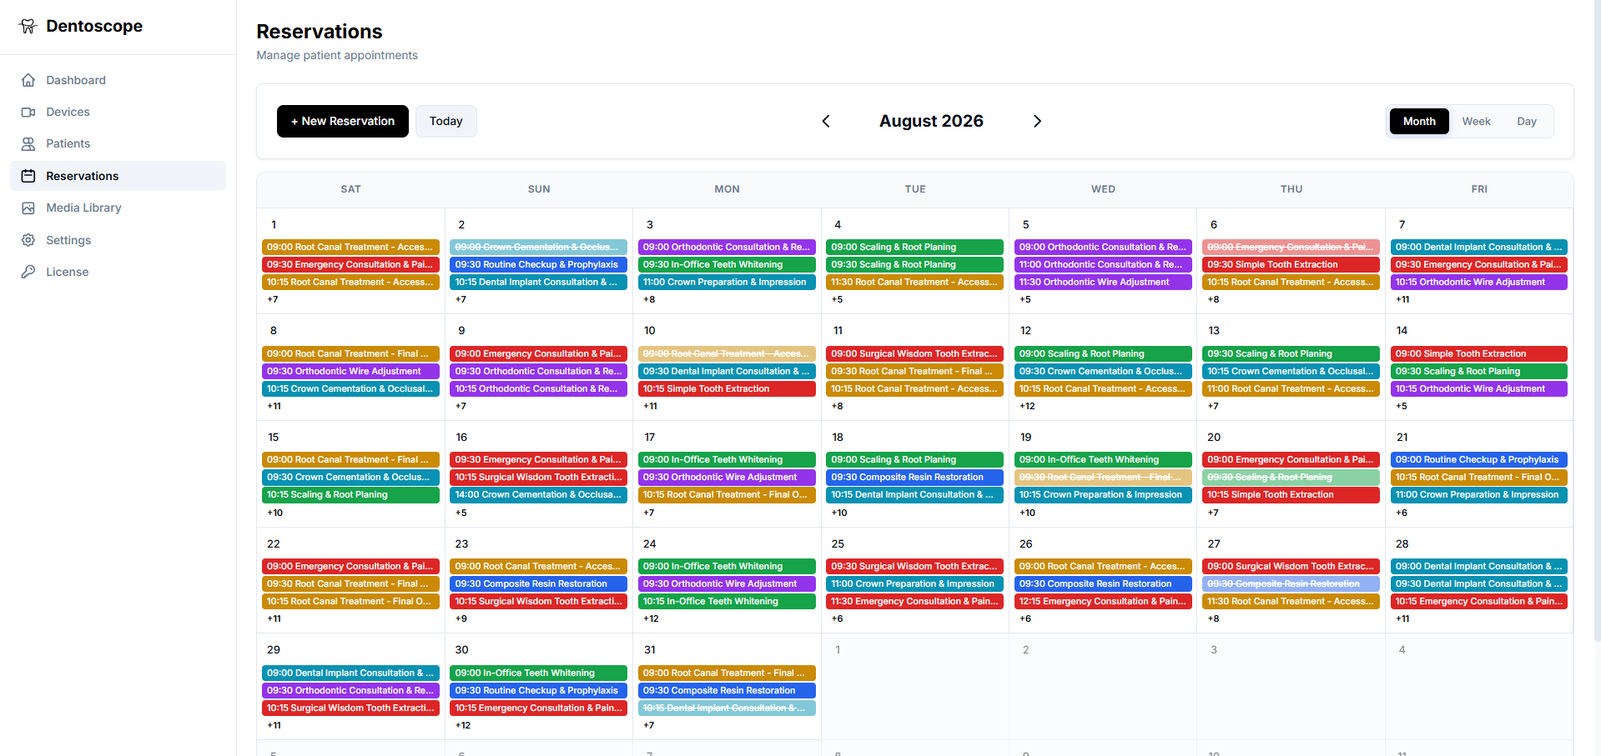
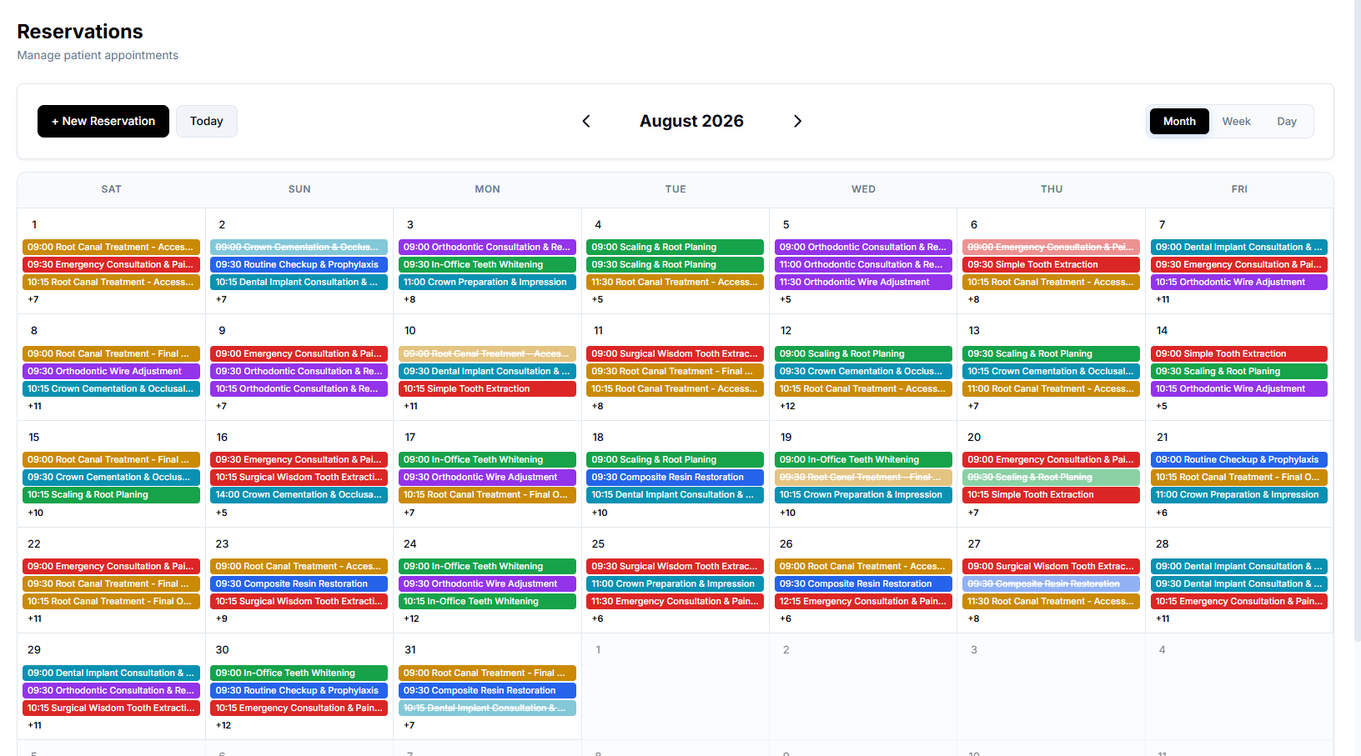
feat: implement demo request form with localization support and new UI components

diff --git a/src/app/translations.ts b/src/app/translations.ts
@@ -126,123 +126,123 @@ export const localTranslations = {
   },
   ar: {
     navFeatures: "المميزات",
-    navGallery: "شاهد النظام",
+    navGallery: "استعرض النظام",
     navLatency: "البث المباشر",
-    navSpecs: "المواصفات الفنية",
+    navSpecs: "البنية التقنية",
     navDemo: "احجز عرضاً تجريبياً",
     ctaDashboard: "دخول النظام",
     heroTitle: "دنتوسكوب.",
-    heroSubtitle: "منصة واحدة. كل ما تحتاجه عيادتك.",
-    heroDesc: "ملفات المرضى، البث المباشر للميكروسكوب، الشرح ثلاثي الأبعاد، الجدولة، والوصفات الطبية — في نظام موحد يعمل داخل عيادتك.",
+    heroSubtitle: "منصة واحدة. كل أدوات عيادتك في مكان واحد.",
+    heroDesc: "سجلات المرضى، بث الميكروسكوب الحي، العرض ثلاثي الأبعاد، المواعيد، والروشتات العلاجية — كلها في نظام واحد يعمل من داخل عيادتك.",
 
     // Latency simulator
-    latencyTitle: "بث ميكروسكوب فوري",
-    latencySubtitle: "معظم أنظمة البث تضيف 2-3 ثوانٍ تأخير. أثناء الجراحة الدقيقة، هذا هو الفرق بين الدقة والتخمين. دنتوسكوب يبث صورة الميكروسكوب بدون أي تأخير — شاشتك وعدستك متزامنتان تماماً.",
+    latencyTitle: "بث فوري للميكروسكوب",
+    latencySubtitle: "تضيف معظم أنظمة البث تأخيراً يتراوح بين 2 إلى 3 ثوانٍ. وفي الجراحة الدقيقة، ينعكس هذا التأخير فارقاً بين الدقة والتخمين. يبث دنتوسكوب صورة الميكروسكوب بدون أي تأخير — لتظل شاشتك وعدستك في تزامن تام دائماً.",
     latencyRTC: "بث دنتوسكوب المباشر",
     latencyRTSP: "البث الشبكي التقليدي",
     latencyRTCLag: "تأخير ~0 ثانية",
-    latencyRTSPLag: "بث متباطئ (~3200 مللي ثانية تأخير)",
+    latencyRTSPLag: "بث بطيء (تأخير ~3200 مللي ثانية)",
     latencyStart: "تشغيل المحاكاة",
     latencyPause: "إيقاف مؤقت",
 
     // Screenshots Gallery Section
-    galleryTitle: "سير عملك بالكامل. في شاشة واحدة.",
-    gallerySubtitle: "من استقبال المريض إلى تقرير ما بعد العلاج — شاهد كيف يدير أطباء الأسنان عياداتهم على دنتوسكوب كل يوم.",
+    galleryTitle: "منظومتك كاملة. في شاشة واحدة.",
+    gallerySubtitle: "من لحظة وصول المريض وحتى مغادرته — اكتشف كيف يدير أطباء الأسنان عياداتهم عبر دنتوسكوب يومياً.",
 
-    screen1Title: "التقاط مباشر وأرشيف وسائط",
-    screen1Desc: "ابث الميكروسكوب أو كاميرا الفحص، التقط صور التشخيص، وأرشفها في ملف المريض — كل ذلك دون مغادرة شاشة العلاج.",
+    screen1Title: "التقاط حي وأرشيف الصور",
+    screen1Desc: "شغّل الميكروسكوب أو كاميرا الفم، التقط صور التشخيص، وأرشفها في سجل المريض — كل ذلك دون مغادرة شاشة العلاج.",
 
     screen2Title: "عرض الحالة ثلاثي الأبعاد",
-    screen2Desc: "امشِ المريض خلال حالته باستخدام مجسمات أسنان تفاعلية. حدد التسوس، وضّح علاج الجذور، واعرض خيارات العلاج بصرياً. المريض الذي يفهم يوافق.",
+    screen2Desc: "وضّح للمريض حالته بمجسمات أسنان تفاعلية. حدد التسوس، اشرح علاج الجذور، واعرض خيارات العلاج بصرياً. المريض الذي يفهم حالته يوافق بثقة.",
 
     screen3Title: "إدارة المواعيد",
-    screen3Desc: "نظّم مواعيد المرضى، تابع جاهزية الكراسي العلاجية، وحدد جلسات المتابعة مباشرة من شاشة العمل السريرية. يومك يظل منظماً.",
+    screen3Desc: "نظّم مواعيد المرضى، وحدد جلسات المتابعة — مباشرة من شاشة عملك الرئيسية. ليبقى يومك منظماً بدقة.",
 
-    screen4Title: "الوصفات الطبية الرقمية والطباعة المباشرة",
-    screen4Desc: "حرر الوصفة الطبية رقمياً أثناء الجلسة، أرفقها بملف المريض، واطبعها مباشرة على طابعة العيادة قبل مغادرة المريض للكرسي.",
+    screen4Title: "الروشتات العلاجية الرقمية والطباعة الفورية",
+    screen4Desc: "اكتب الروشتة العلاجية رقمياً أثناء الجلسة، أرفقها بسجل المريض، واطبعها فوراً قبل مغادرة المريض للكرسي.",
 
     // Bento Grid Features
-    bentoHeader: "نظام متكامل. مش مجرد أداة.",
-    feat1Title: "سجلات المرضى والخط الزمني",
-    feat1Desc: "صور، أشعة، فيديوهات، ملاحظات، ووصفات — مرتبة زمنياً لكل مريض. كل ما تحتاجه في عرض واحد. بدون ملفات متناثرة.",
+    bentoHeader: "نظام متكامل. ليس مجرد أداة.",
+    feat1Title: "سجلات المرضى والتاريخ الزمني",
+    feat1Desc: "صور، أشعة، فيديوهات، ملاحظات، وروشتات علاجية — كلها مرتبة زمنياً لكل مريض. كل ما تحتاجه في شاشة واحدة، دون مستندات متناثرة.",
     feat2Title: "إدارة المواعيد",
-    feat2Desc: "جدوِل الزيارات، تابع حالة الكراسي، ونظّم يومك — كل ذلك مدمج في نفس النظام الذي تستخدمه للعلاج. بدون تطبيق منفصل.",
+    feat2Desc: "جدوِل الزيارات، ونظّم يومك — كل ذلك مدمج في نفس النظام الذي تستخدمه للعلاج، دون الحاجة لتطبيقات منفصلة.",
     feat3Title: "عرض العلاج ثلاثي الأبعاد",
-    feat3Desc: "مجسمات فك تفاعلية تُري المريض بالضبط ما يحدث. حدد المشكلة، خطط الترميم، واحصل على موافقة مبنية على فهم — بصرياً.",
-    feat4Title: "وصفات طبية رقمية",
-    feat4Desc: "اكتب الوصفة أثناء الجلسة وأرفقها مباشرة بملف المريض. اطبعها أو احفظها قبل ما المريض يقوم.",
+    feat3Desc: "مجسمات فك تفاعلية تُظهر للمريض تشخيص حالته بدقة. حدد التسوس، وضح خطة العلاج، واحصل على موافقته الواعية — بصرياً.",
+    feat4Title: "روشتات علاجية رقمية",
+    feat4Desc: "اكتب الروشتة العلاجية أثناء الجلسة وأرفقها مباشرة بسجل المريض. اطبعها أو احفظها مباشرة قبل مغادرة المريض.",
     feat5Title: "بث الميكروسكوب المباشر",
-    feat5Desc: "بث فيديو فوري من الميكروسكوب أو كاميرا الفحص بدون أي تأخير. ما تحت العدسة يظهر على الشاشة لحظياً — مثالي للعمل الدقيق.",
+    feat5Desc: "بث فوري من الميكروسكوب أو كاميرا الفم بدون أي تأخير. ما تحت العدسة يظهر على الشاشة فوراً، مما يجعله مثالياً للإجراءات الدقيقة.",
     feat6Title: "تحكم صوتي بدون لمس",
-    feat6Desc: "التقط صور، ابدأ التسجيل، أو تصفح النظام بالأوامر الصوتية. مفيد أثناء العمليات لما تكون يديك مشغولة.",
+    feat6Desc: "التقط الصور، ابدأ التسجيل، أو تصفح النظام بصوتك. مفيد أثناء الإجراءات الطبية عندما تكون يداك مشغولتين.",
     feat7Title: "استيراد تلقائي للأشعة والصور",
-    feat7Desc: "أجهزة التصوير تحفظ ملفاتها في مجلد. دنتوسكوب يراقب المجلد ويرفق كل شيء بملف المريض النشط تلقائياً.",
-    feat8Title: "ملخصات فيديو للمريض",
-    feat8Desc: "سجّل فيديو سريع تشرح فيه عمل اليوم فوق صور التشخيص. المريض يغادر وهو فاهم خطة العلاج بالكامل.",
+    feat7Desc: "تستورد المنصة الأشعة والصور التلقائية من مجلدات أجهزتك، لترفقها فوراً بسجل المريض النشط.",
+    feat8Title: "شرح فيديو للمريض",
+    feat8Desc: "سجّل فيديو سريع تشرح فيه إجراءات اليوم فوق صور التشخيص، ليغادر المريض وهو على استيعاب كامل لخطة علاجه.",
     feat9Title: "إدارة المستندات",
-    feat9Desc: "تقارير المختبر، رسائل التحويل، نماذج التأمين، التاريخ الطبي — أرفق أي PDF بملف المريض. ملف واحد، مكان واحد، دائماً موجود.",
+    feat9Desc: "تقارير المعمل، خطابات التحويل، نماذج التأمين، والتاريخ الطبي — أرفق أي مستند PDF بسجل المريض. في مكان واحد منظم، ومتاح دائماً.",
     feat10Title: "طباعة مباشرة من العيادة",
-    feat10Desc: "اطبع الوصفات والتقارير وملخصات المريض على أي طابعة متصلة — عادية أو حرارية — مباشرة من محطة العمل.",
+    feat10Desc: "اطبع الروشتات العلاجية والتقارير وملخصات المريض على أي طابعة متصلة — عادية أو حرارية — من شاشة العمل مباشرة.",
     feat11Title: "يعمل مع أجهزتك الحالية",
-    feat11Desc: "وصّل الميكروسكوب أو كاميرا الفحص أو أي جهاز تصوير لديك. دنتوسكوب يتعرف عليه ويتصل به فوراً.",
+    feat11Desc: "وصّل الميكروسكوب أو كاميرا الفم أو أي جهاز تصوير لديك. يتعرف عليه دنتوسكوب ويتصل به فوراً.",
     feat12Title: "محلي 100% وبدون إنترنت",
-    feat12Desc: "بدون اعتماد على السحابة. بدون حاجة للإنترنت. نظامك بالكامل يعمل على شبكتك المحلية — متاح دائماً، خاص دائماً، ملكك دائماً.",
+    feat12Desc: "بدون سحابة. بدون إنترنت. نظامك يعمل بالكامل على شبكتك المحلية — متاح دائماً، آمن تماماً، وملك لك بالكامل.",
 
     // Specs
     specsTitle: "البنية التقنية",
     specsDb: "هندسة البيانات",
-    specsDbVal: "قاعدة بيانات محلية. كل سجلات المرضى والوسائط والمستندات محفوظة بأمان على أجهزة عيادتك. بدون خوادم خارجية.",
+    specsDbVal: "قاعدة بيانات محلية. كل سجلات المرضى والصور والمستندات محفوظة بأمان على أجهزة العيادة، بدون خوادم خارجية.",
     specsVideo: "محرك البث المرئي",
-    specsVideoVal: "محرك بث مباشر بتأخير أقل من ثانية مُحسّن لبث الميكروسكوب الجراحي وتنسيق اليد مع الشاشة.",
+    specsVideoVal: "محرك بث بتأخير أقل من ثانية، مصمم لبث الميكروسكوب الجراحي والتنسيق الفوري بين يدك والشاشة.",
     specsTwain: "تكامل التصوير",
-    specsTwainVal: "مراقبة تلقائية للمجلدات تستورد الأشعة وصور السنسور والصور الرقمية مباشرة لملف المريض النشط.",
+    specsTwainVal: "مراقبة تلقائية للمجلدات — تُرفق الأشعة وصور السنسور بسجل المريض تلقائياً.",
     specsRtc: "محرك الصوت",
-    specsRtcVal: "التعرف على الصوت يعمل محلياً بدون إنترنت ويحول أوامرك لإجراءات في النظام — التقاط، تسجيل، تصفح، وطباعة.",
+    specsRtcVal: "يعمل التعرف على الصوت محلياً بدون إنترنت ويحوّل أوامرك الصوتية إلى إجراءات مباشرة في النظام — التقاط، تسجيل، تصفح، وطباعة.",
     specsNetwork: "المشاركة عبر الشبكة",
-    specsNetworkVal: "شارك سجلات المرضى والبث المباشر على الأيباد وشاشات العيادة واللابتوبات عبر شبكتك المحلية. صفر استهلاك إنترنت.",
+    specsNetworkVal: "شارك سجلات المرضى والبث الحي على الآيباد وشاشات العيادة واللابتوبات — عبر شبكتك المحلية، بدون أي استهلاك للإنترنت.",
 
     // Easy Setup Walkthrough
-    workflowHeader: "جاهز للعمل خلال أقل من 10 دقائق",
+    workflowHeader: "جاهز للعمل في أقل من 10 دقائق",
     workflowStep1Title: "1. ثبّت دنتوسكوب",
-    workflowStep1Desc: "تحميل واحد. ضغطة واحدة. يُثبّت محلياً على جهاز العيادة — بدون قسم تقنية، بدون إعداد خوادم.",
+    workflowStep1Desc: "تحميل واحد بضغطة واحدة. يتثبّت محلياً على جهاز العيادة — بدون الحاجة لخوادم أو دعم تقني معقد.",
     workflowStep2Title: "2. وصّل أجهزتك",
-    workflowStep2Desc: "وصّل الميكروسكوب أو كاميرا الفحص أو أجهزة التصوير. دنتوسكوب يكتشفها ويضبطها تلقائياً.",
+    workflowStep2Desc: "وصّل الميكروسكوب أو كاميرا الفم أو أجهزة التصوير. يتعرف عليها دنتوسكوب ويضبطها تلقائياً.",
     workflowStep3Title: "3. ابدأ العمل",
-    workflowStep3Desc: "افتح ملف المريض وابدأ جلستك. جدوِل، التقط، اكتب الوصفة، ووثّق — كل ذلك من مكان واحد.",
+    workflowStep3Desc: "افتح سجل المريض وابدأ جلستك. جدوِل المواعيد، التقط الصور، اكتب الروشتة العلاجية، ووثّق الجلسة — كل ذلك من شاشة واحدة.",
     workflowStep4Title: "",
     workflowStep4Desc: "",
 
-    hygieneHeader: "مصمم حول طريقة عمل طبيب الأسنان الفعلية.",
-    hygieneDesc: "دنتوسكوب ليس أداة تتكيف أنت معها — إنه نظام بُني ليتوافق مع الطريقة التي تعمل بها عيادتك فعلاً. من لحظة دخول المريض إلى لحظة مغادرته، كل خطوة مغطاة: الجدولة، التشخيص، توثيق العلاج، الوصفات، والمتابعة.",
+    hygieneHeader: "مصمم ليتوافق تماماً مع نمط العمل الفعلي لطبيب الأسنان.",
+    hygieneDesc: "دنتوسكوب ليس مجرد أداة تتكيف معها، بل نظام متكامل صُمم ليتوافق مع سير العمل في عيادتك. من لحظة وصول المريض وحتى مغادرته، كل خطوة مغطاة بالكامل: المواعيد، التشخيص، توثيق العلاج، الروشتات العلاجية، والمتابعة.",
     hygieneFeature1Title: "نظام واحد لكل شيء",
-    hygieneFeature1Desc: "توقف عن التنقل بين تطبيقات المواعيد والوسائط والسجلات والوصفات. دنتوسكوب يجمعها كلها في واجهة واحدة.",
-    hygieneFeature2Title: "بدون لمس عند الحاجة",
-    hygieneFeature2Desc: "أثناء العمليات، تحكم بالنظام بصوتك — التقاط، تسجيل، تصفح. خارج العمليات، استخدمه كأي تطبيق عادي.",
+    hygieneFeature1Desc: "استغني عن التنقل بين تطبيقات متعددة للمواعيد والصور والسجلات والروشتات. يجمع دنتوسكوب كافة أدواتك في شاشة موحدة.",
+    hygieneFeature2Title: "تحكم صوتي أثناء الإجراءات الطبية",
+    hygieneFeature2Desc: "أثناء العملية الجراحية، تحكم بالنظام بصوتك — التقاط الصور، بدء التسجيل، والتصفح. وخارج العمليات، استخدمه بكل سهولة كأي تطبيق سلس.",
 
     sovereigntyHeader: "عيادتك. بياناتك. قواعدك.",
-    sovereigntyDesc: "بدون اشتراكات سحابية شهرية. بدون خروج بيانات المرضى من مبنى العيادة. بدون توقف عند انقطاع الإنترنت. دنتوسكوب يعمل بالكامل على شبكتك المحلية — ملكية كاملة لبيانات عيادتك وصفر اعتماد على خدمات خارجية.",
+    sovereigntyDesc: "بدون اشتراكات سحابية شهرية. بيانات مرضاك لا تغادر مبنى عيادتك أبداً. انقطع الإنترنت؟ يستمر النظام بالعمل بكفاءة كاملة. يعمل دنتوسكوب كلياً على شبكتك المحلية — ليمنحك الملكية الكاملة لبياناتك واستقلالية تامة عن الخدمات الخارجية.",
     sovereigntyFeature1Title: "يعمل دائماً، متاح دائماً",
-    sovereigntyFeature1Desc: "انقطع الإنترنت؟ لا يهم. قاعدة بيانات المرضى وبث الفيديو ونظام المواعيد يستمرون بالعمل بدون انقطاع.",
+    sovereigntyFeature1Desc: "انقطاع الإنترنت لن يعطّل عملك. تستمر قاعدة البيانات، والبث الحي، ونظام المواعيد بالعمل دون أي توقف.",
     sovereigntyFeature2Title: "ملكية كاملة لبياناتك",
-    sovereigntyFeature2Desc: "سجلات المرضى تبقى على أجهزتك، داخل عيادتك. بدون وصول طرف ثالث. بدون خطر تسريب. تحكم كامل وامتثال كامل.",
+    sovereigntyFeature2Desc: "تبقى سجلات المرضى محفوظة على أجهزتك داخل عيادتك. لا وجود لأطراف خارجية، ولا مخاطر للتسريب — تحكم آمن وخصوصية مطلقة.",
 
     demoCountry: "الدولة",
 
     // Demo Request Form
-    demoTitle: "شاهد ما يقدمه دنتوسكوب لعيادتك",
-    demoSubtitle: "احجز جولة مجانية مع أحد مختصي المنتج. سنعرض لك النظام كاملاً — إدارة المرضى، البث المباشر، العرض ثلاثي الأبعاد، الجدولة، والمزيد — مخصص لسير عمل عيادتك.",
+    demoTitle: "اكتشف ما يقدمه دنتوسكوب لعيادتك",
+    demoSubtitle: "احجز جولة استعراضية مجانية مع أحد متخصصينا. سنعرض لك النظام كاملاً — إدارة المرضى، البث الحي، العرض ثلاثي الأبعاد، المواعيد، والمزيد — مخصصاً ليلائم سير العمل في عيادتك.",
     demoName: "الاسم الكامل",
     demoClinic: "اسم العيادة",
     demoEmail: "البريد الإلكتروني",
     demoPhone: "رقم الهاتف",
-    demoTime: "أفضل وقت للتواصل",
+    demoTime: "الوقت المفضل للتواصل",
     demoTimeMorning: "صباحاً (9 ص – 12 م)",
     demoTimeAfternoon: "ظهراً (12 م – 5 م)",
     demoTimeEvening: "مساءً (5 م – 9 م)",
     demoMessage: "أخبرنا عن عيادتك",
     demoSubmit: "احجز العرض التجريبي",
     demoSuccessTitle: "تم الحجز بنجاح!",
-    demoSuccessDesc: "شكراً لك. سيتواصل معك مختص المنتج في الوقت المفضل لعرض تجريبي مباشر وكامل للمنصة.",
+    demoSuccessDesc: "شكراً لك. سيتواصل معك أحد متخصصينا في الوقت المحدد لتقديم عرض استعراضي شامل للمنصة.",
 
     // Footer
     footerDesc: "المنصة الرقمية المتكاملة لعيادات الأسنان.",

diff --git a/src/app/components/Gallery.tsx b/src/app/components/Gallery.tsx
@@ -99,7 +99,7 @@ export default function Gallery({ language, scrollToSection }: GalleryProps) {
                           : 'text-zinc-300 hover:text-white bg-transparent'
                       }`}
                     >
-                      {language === 'ar' ? 'العرض الأسبوعي' : 'Weekly View'}
+                      {language === 'ar' ? 'الأسبوعي' : 'Weekly View'}
                     </button>
                     <button
                       onClick={() => setAppointmentView('monthly')}
@@ -109,7 +109,7 @@ export default function Gallery({ language, scrollToSection }: GalleryProps) {
                           : 'text-zinc-300 hover:text-white bg-transparent'
                       }`}
                     >
-                      {language === 'ar' ? 'العرض الشهري' : 'Monthly View'}
+                      {language === 'ar' ? 'الشهري' : 'Monthly View'}
                     </button>
                   </div>
                 )}
@@ -125,7 +125,7 @@ export default function Gallery({ language, scrollToSection }: GalleryProps) {
                           : 'text-zinc-300 hover:text-white bg-transparent'
                       }`}
                     >
-                      {language === 'ar' ? 'الشاشة الرقمية' : 'Digital View'}
+                      {language === 'ar' ? 'الرقمية' : 'Digital View'}
                     </button>
                     <button
                       onClick={() => setPrescriptionView('print')}
@@ -135,7 +135,7 @@ export default function Gallery({ language, scrollToSection }: GalleryProps) {
                           : 'text-zinc-300 hover:text-white bg-transparent'
                       }`}
                     >
-                      {language === 'ar' ? 'النسخة المطبوعة' : 'Print View'}
+                      {language === 'ar' ? 'المطبوعة' : 'Print View'}
                     </button>
                   </div>
                 )}

diff --git a/src/app/components/LatencySimulator.tsx b/src/app/components/LatencySimulator.tsx
@@ -26,7 +26,7 @@ export default function LatencySimulator({ language }: LatencySimulatorProps) {
           {/* Descriptions */}
           <div className="reveal">
             <span className="text-xs font-semibold tracking-widest text-zinc-500 uppercase mb-3 block">
-              {language === 'ar' ? 'دقة تنسيق حركية' : 'Precision Hand-Eye Sync'}
+              {language === 'ar' ? 'تنسيق فوري بين اليد والشاشة' : 'Precision Hand-Eye Sync'}
             </span>
             <h2 className="text-3xl md:text-4xl font-bold tracking-tight text-zinc-900 mb-6">
               {m.latencyTitle}

diff --git a/src/app/components/DemoForm.tsx b/src/app/components/DemoForm.tsx
@@ -81,7 +81,7 @@ export default function DemoForm({ language }: DemoFormProps) {
           message: ''
         });
       } else {
-        alert(language === 'ar' ? 'حدث خطأ أثناء إرسال طلب العرض. يرجى المحاولة مرة أخرى.' : 'Failed to send demo request. Please try again.');
+        alert(language === 'ar' ? 'حدث خطأ أثناء إرسال الطلب. يرجى المحاولة مرة أخرى.' : 'Failed to send demo request. Please try again.');
       }
     } catch (error) {
       console.error("Error submitting form", error);
